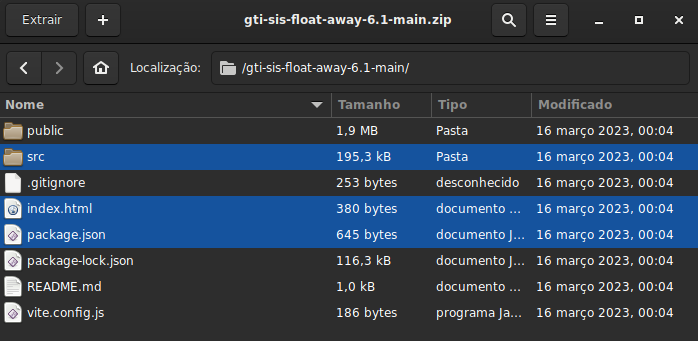
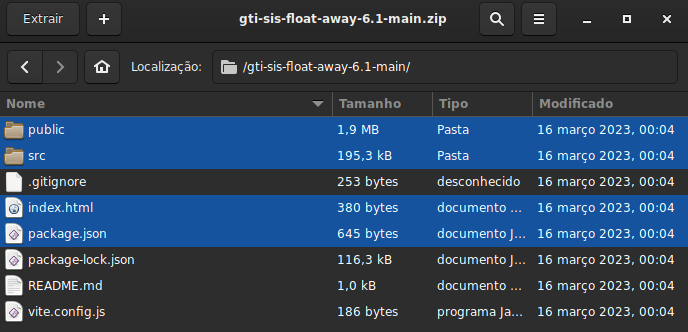
Alteração de informação e imagem.

diff --git a/Projetos/GTi SiS Float Away 6.1/README.md b/Projetos/GTi SiS Float Away 6.1/README.md
@@ -47,7 +47,7 @@ npm create vite@latest project_name
 2 - Entre no diretório do seu projeto `project_name` e siga os seguintes passos:
 
   - Baixe o arquivo compactado [`Download Zip`](https://github.com/systemboys/gti-sis-float-away-6.1 "Download Zip") do projeto no GitHub;
-  - Extraia o projeto e copie o diretório `./src` e os arquivos `./index.html` e `./package.json`.
+  - Extraia o projeto, copie os diretórios `./src/` e `./public/`, os arquivos `./index.html` e `./package.json` para dentro do novo projeto Vite.
 
 [![Download do projeto](https://github.com/systemboys/React_Codes/raw/main/Projetos/GTi%20SiS%20Float%20Away%206.1/images/Download_Zip_gti-sis-float-away-6.1.png "Download do projeto")](https://github.com/systemboys/React_Codes/raw/main/Projetos/GTi%20SiS%20Float%20Away%206.1/images/Download_Zip_gti-sis-float-away-6.1.png "Download do projeto")
 
